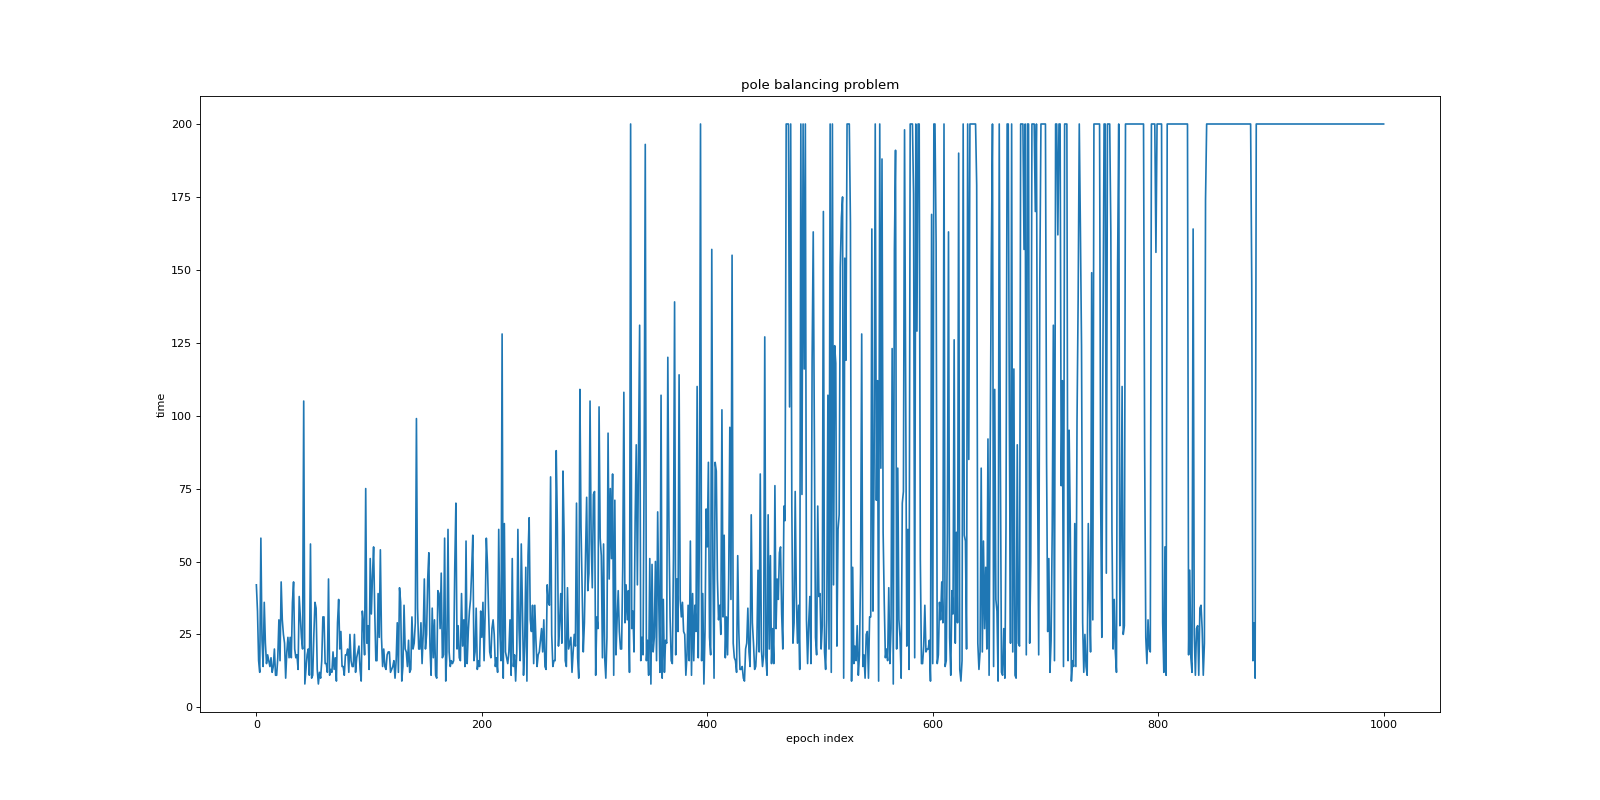
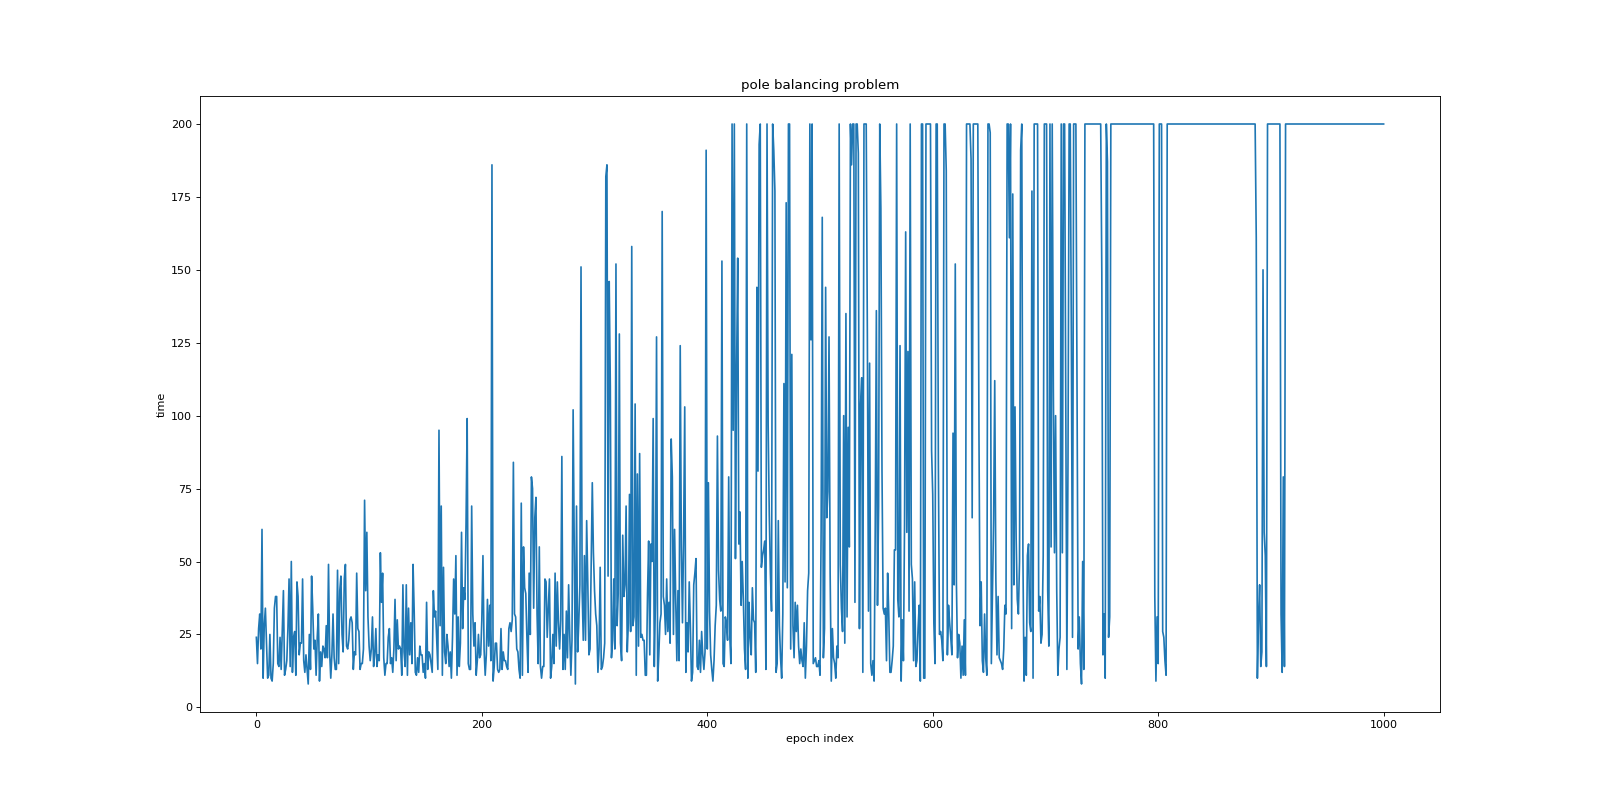
feat: pole

Changed region(s): [[0.1562, 0.1562, 0.8125, 0.875]]

diff --git a/lab/lab/cv5/cv5.py b/lab/lab/cv5/cv5.py
@@ -22,30 +22,30 @@ def print_info(env, state, t, reward,  episode, agent, action):
     print("\n")
 
 def cv5():
+
     env = gym.make('CartPole-v0')
     #position, velocity, angle, and angular velocity - observations
     agent = QAgent(EPISODES, LEARNING_RATE, BUCKETS)
+
     def run_condition(t, done, state, test, epoch, agent):
         run = True
         if done:
+
+
             run = False
             if VERBOSE_TIME:
                 text = f'{t}' if test else f't={t}; e={epoch}; l={agent.learning_rate}'
                 print(f'Ended in time -> {text}')
-        if t > TIMESTAMPS:
-            print(test)
-            if not test:
-
-                if VERBOSE_TIME:
-                    print(f'Ended in time -> t={t}; e={epoch}; l={agent.learning_rate}')
-                run = False
         return run
 
 
     epoch_i = 0
     HISTORY = []
     SAVED = False
-    
+
+    SOLVED = False
+    SAVE_T = None
+
     while True:
         state = env.reset()
         mapped_state = agent.map_state(env, state)
@@ -54,7 +54,10 @@ def cv5():
 
         test = False
         if epoch_i > EPISODES:
-            input_value = input('Wanna see learned agent? [y/n]\n')
+            fix = '=================='
+            print(f'\n{fix}First hit t={SAVE_T}')
+            input_value = input(f'Wanna see learned agent? [y/n]\n')
+            print(f'{fix}\n')
             test = True if input_value == 'y' else False
             if not test:
                 print('Ending program.. bye')
@@ -89,6 +92,9 @@ def cv5():
             if test:
                 env.render()
             t += 1
+            if t == TIMESTAMPS and not SOLVED:
+                SOLVED = True
+                SAVE_T = epoch_i
 
         HISTORY.append((epoch_i, t))
         #Update probability after one episode (generation)
